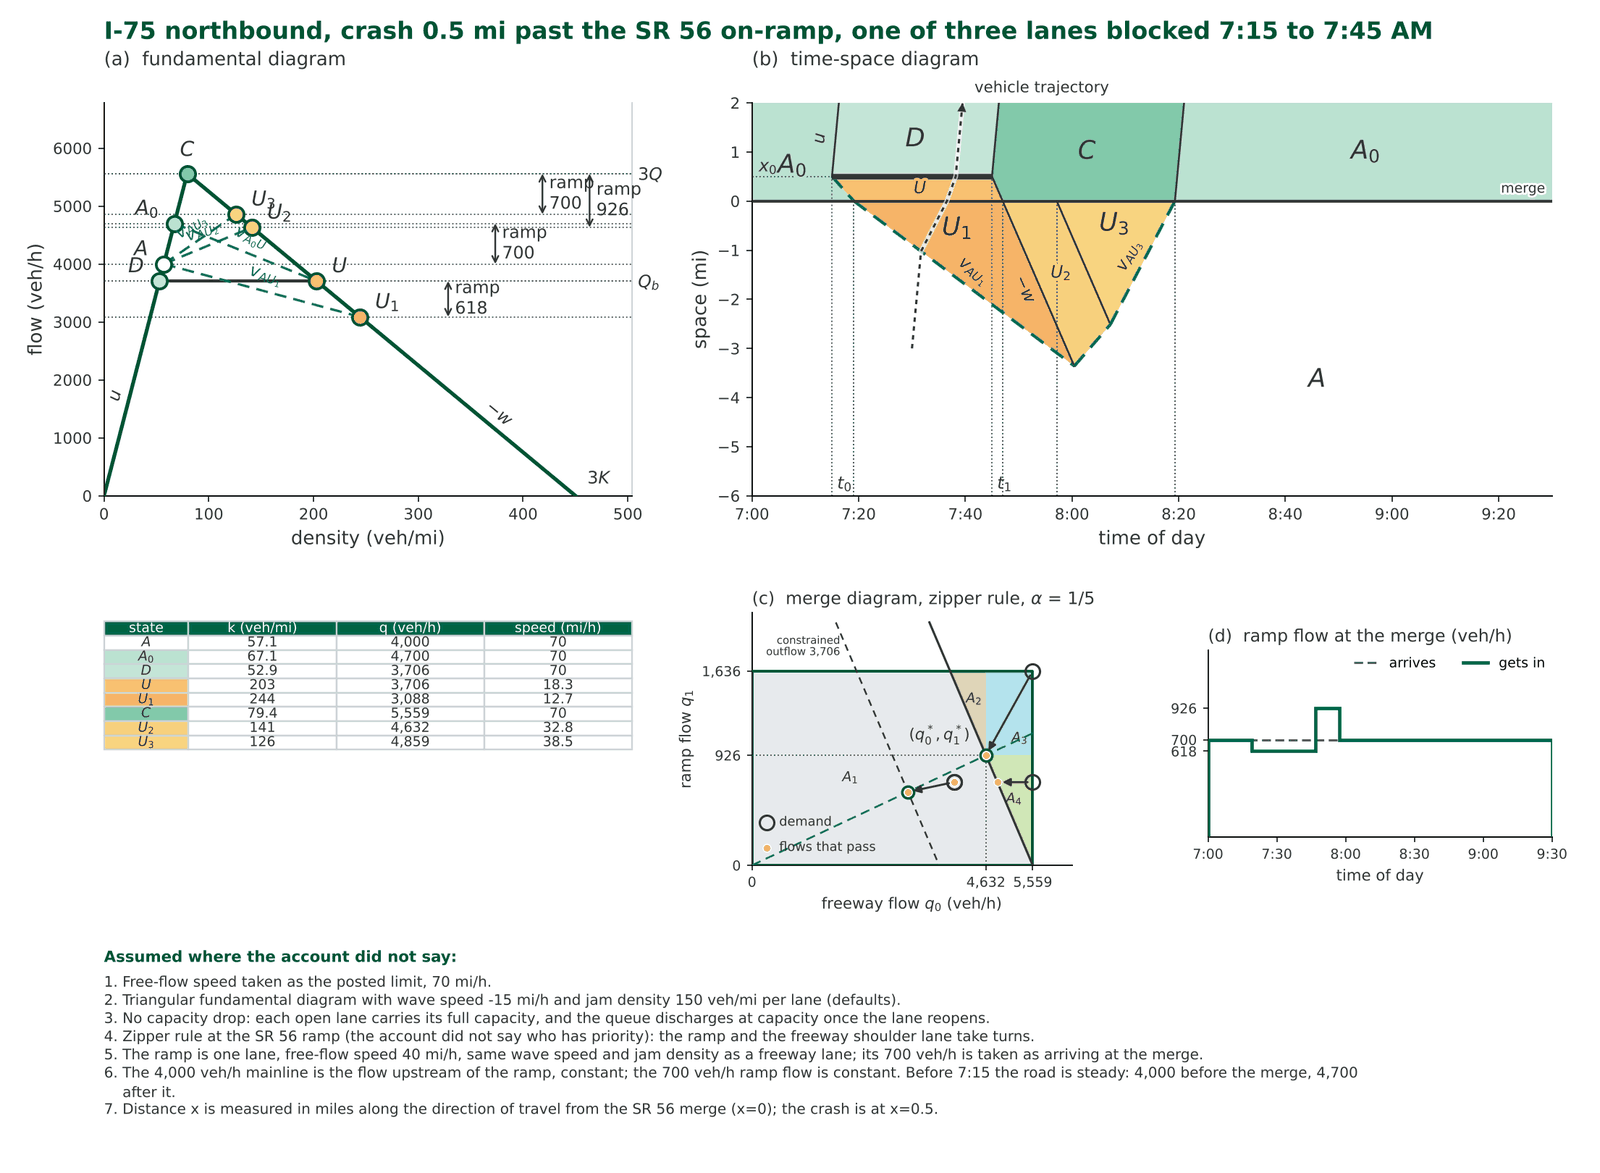
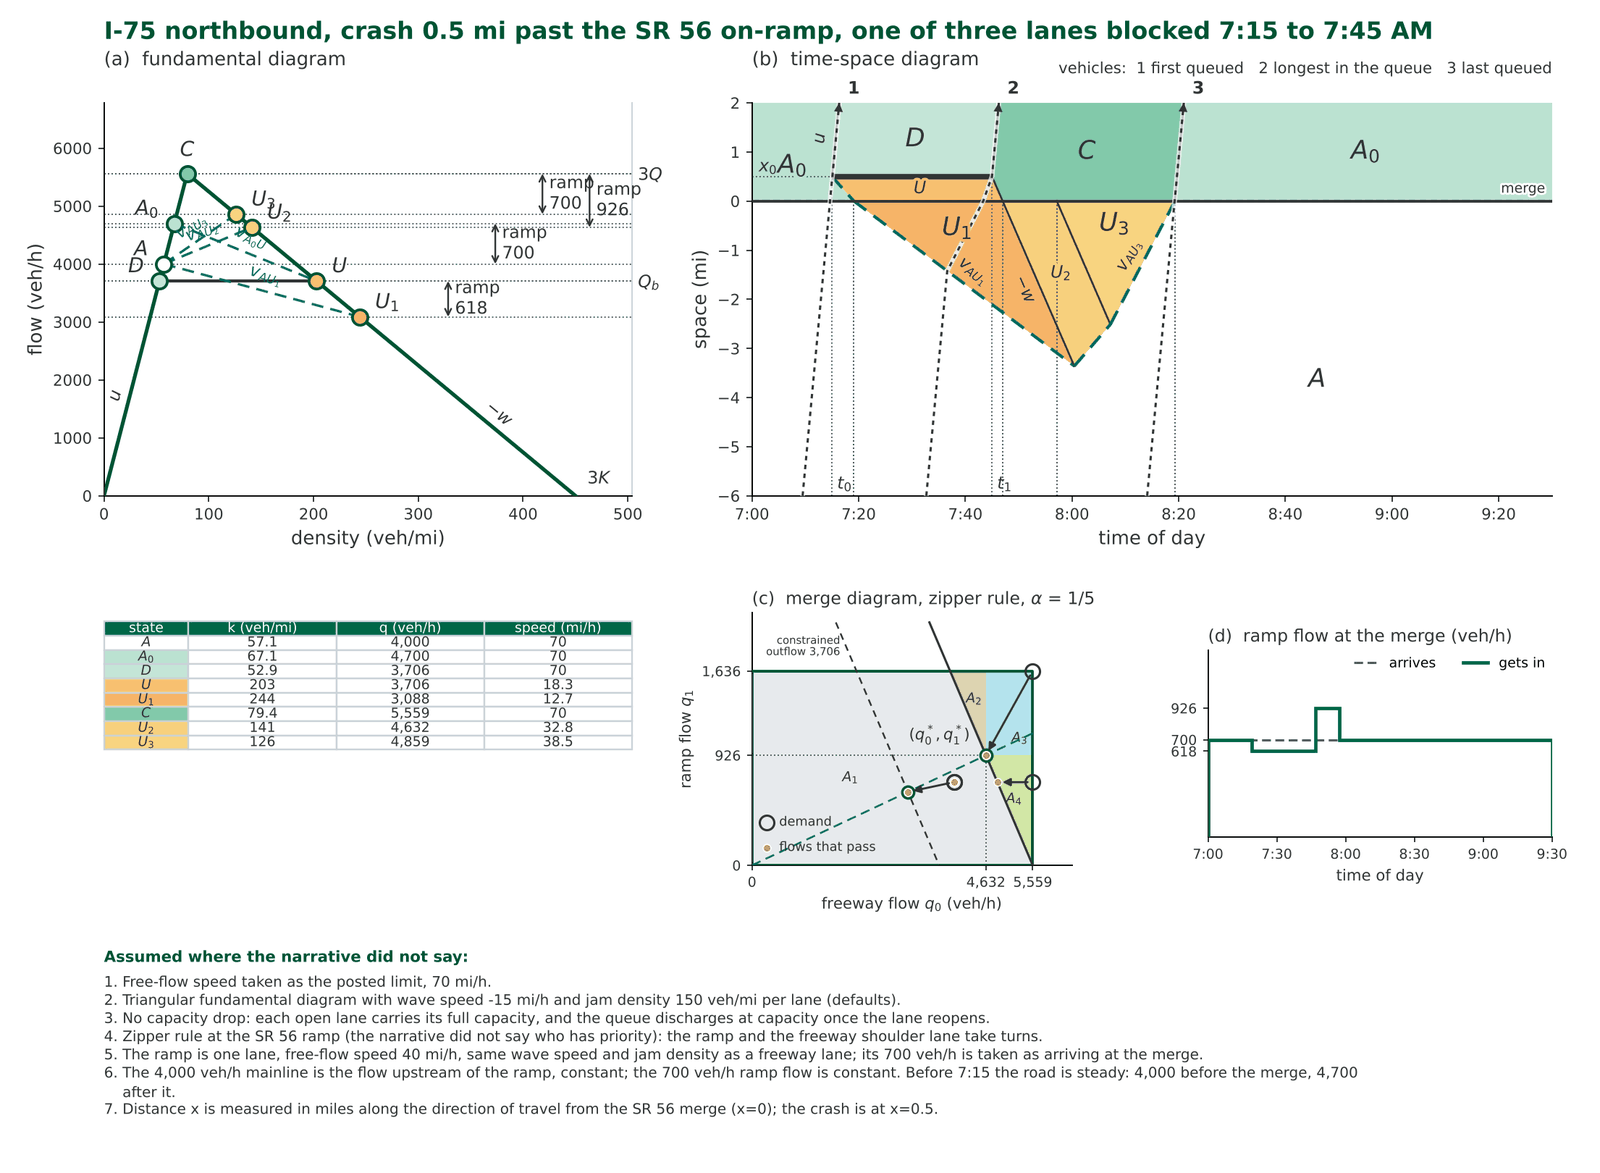
Diagram agent page: how to read a diagram, readings for the four examples
Adds the four reading rules (states, vertical line, horizontal line, area),
three numbered vehicles on each figure, and a short reading under each
example. Corrects the key numbers: the longest queue and the furthest reach
of its back are two different numbers.

Claude-Session: https://claude.ai/code/session_014NvYPouGWLsKmCMGh8xBX9

diff --git a/traffic-diagram-agent.md b/traffic-diagram-agent.md
@@ -96,6 +96,21 @@ top, and each colored region is one traffic state. Yellow, orange and red region
 denser; red is stopped traffic), and green regions are traffic leaving a queue. The assumptions are printed
 under each figure.
 
+**How to read what it means.** The agent also reads each diagram for you, with four simple rules:
+
+- **Each colored region is one state.** Find its dot on the fundamental diagram to get its speed, flow and
+  density. That is how you describe the congestion an incident causes.
+- **A vertical line is one moment.** It crosses the queue over the queue's length at that moment. The queue is
+  longest where the vertical line crosses the most, which for a crash is the moment the lanes reopen.
+- **A horizontal line is one place.** It crosses the queue over the time that place stays congested.
+- **Area is time spent in the queue.** The area of a queued region, times the density of its state, is the
+  total time vehicles spend in it, in vehicle-hours.
+
+The dotted lines are three vehicles, numbered on the figure: **1** is the first to be queued, **2** is the one
+longest in the queue (its path has the widest span inside the queue), and **3** is the last, which passes the
+point where the back of the queue and the discharge wave meet. The numbered paths and the readings below were
+added on November 23, 2026 by the agent's reading tool.
+
 ### 1. A crash, with everything given
 
 > I-4 eastbound at mile marker 14. A crash at 4:40 PM blocked the two right lanes of four. All lanes were
@@ -107,12 +122,19 @@ under each figure.
 unless you say so.
 
 ```{figure} _static/figures/KWA_Crash_Two_Of_Four.png
-:alt: Fundamental diagram and time-space diagram for a crash that blocks two of four lanes from 16:40 to 17:10. Behind the crash a queue (orange, state U) grows upstream; when the lanes reopen, discharge at capacity (state C) runs back through the queue and meets its back at 17:28, about 4.5 miles upstream.
+:alt: Fundamental diagram and time-space diagram for a crash that blocks two of four lanes from 16:40 to 17:10. Behind the crash a queue (orange, state U) grows upstream; when the lanes reopen, discharge at capacity (state C) runs back through the queue and meets its back at 17:28, about 4.5 miles upstream. Three dotted vehicle paths are numbered 1, 2 and 3.
 :width: 100%
 
-Key numbers: a queue first forms at 16:40. It is longest at 17:28, just as it clears: its back is then
-4.5 mi upstream of the crash. The queue is gone by 17:28.
+Key numbers: a queue first forms at 16:40. The queue is longest at 17:10: about 2.8 mi. The back of the queue
+is furthest upstream at 17:28: 4.5 mi behind the crash, just as the queue clears. The queue is gone by 17:28.
 ```
+
+*Reading it:* the queue (state *U*) moves at 10.3 mi/h, at 59% of jam density. The vertical line at 17:10 crosses
+it over 2.8 mi, from mile 11.2 to the crash at mile 14: the longest queue. The horizontal line at the crash
+crosses it for 30 minutes. The area of *U* times its density is about 397 vehicle-hours spent in the queue,
+shared by about 4,500 vehicles: 5.3 minutes each on average. Vehicle 2 is in the queue longest, 10.6 minutes:
+it joins the back at 16:59 at mile 12.2, crawls 1.8 mi, and passes the crash just as the lanes reopen at 17:10.
+Vehicles that join later are met by the discharge wave before they reach the crash, so they wait less.
 
 ### 2. A slow oversize load
 
@@ -132,6 +154,11 @@ Key numbers: a queue first forms at 10:00. The queue moves with the load and is 
 2.7 mi long. The queue is gone by 10:24.
 ```
 
+*Reading it:* behind the load, traffic moves at about 51 mi/h (state *U*), so this is a slow queue, not a
+standstill. About 1,210 vehicles are caught in it and spend about 57 vehicle-hours there, 2.8 minutes each on
+average. Vehicle 2 is in it longest, 5.7 minutes: it catches up with the queue at 10:14 and gets out when the
+load exits at 10:20.
+
 ### 3. A crash just past an on-ramp
 
 > Crash on I-75 northbound about half a mile past the SR 56 on-ramp, one of three lanes blocked from 7:15 to
@@ -146,9 +173,15 @@ so both queue. The lower panels show the merge and the ramp's own flow.
 :alt: Fundamental diagram, time-space diagram, merge diagram and ramp flow for a crash half a mile past an on-ramp, one of three lanes blocked from 7:15 to 7:45. The queue from the crash reaches the merge, after which the mainline queue (states U1, U2, U3) grows upstream of the merge and the ramp flow drops below its demand; the queue is gone at 8:19.
 :width: 100%
 
-Key numbers: a queue first forms at 07:15. At its longest, at 08:00, its back is 3.9 mi upstream of the
-crash. The queue is gone by 08:19.
+Key numbers: a queue first forms at 07:15. The queue is longest at 08:00: about 3.4 mi. The back of the queue
+is furthest upstream at 08:00: 3.9 mi behind the crash. The queue is gone by 08:19.
 ```
+
+*Reading it:* upstream of the merge the queue first moves at about 13 mi/h (*U1*), then faster as it
+discharges (*U2*, *U3*). The merge is the place congested longest: 60 minutes. Freeway vehicles spend about
+368 vehicle-hours in the queue: about 4,320 vehicles, 5 minutes each on average. Vehicle 2 is in it longest,
+8.4 minutes: it joins the back at 7:37 and gets past the crash at 7:45. The time ramp vehicles wait on the ramp
+itself is not in these numbers.
 
 ### 4. From a research paper: speed limits that clear a bottleneck queue
 
@@ -175,9 +208,12 @@ which makes the queue small.
 :alt: Fundamental diagram and time-space diagram for a bottleneck at km 12 with a capacity drop and a speed limit posted at km 11.5. The bottleneck queue h forms at 0.1 h. At 0.2 h a 20 km/h limit creates a slow queue c upstream of km 11.5 and a light flow d past it, which clears queue h by 0.275 h. At 0.28 h a 40 km/h limit turns c into queue e, which feeds the bottleneck 6,000 veh/h in free flow (state g). Lighter demand A2 ends queue e at km 11.5 at 0.443 h.
 :width: 100%
 
-Key numbers: a queue first forms at 0.1 h. At its longest, at 0.329 h, its back is 2.1 km upstream of the
-bottleneck. The queue is gone by 0.443 h.
+Key numbers: a queue first forms at 0.1 h. The queue is longest at 0.329 h: about 1.6 km. The back of the
+queue is furthest upstream at 0.329 h: 2.1 km behind the bottleneck. The queue is gone by 0.443 h.
 ```
+
+*Reading it:* the three queues move at 30 km/h (*h*), 20 km/h (*c*) and 40 km/h (*e*). About 1,970 vehicles
+spend about 52 vehicle-hours in them; the longest any vehicle spends is 0.049 h, about 3 minutes (vehicle 2).
 
 Paper: D. Chen, S. Ahn and A. Hegyi (2014), "Variable speed limit control for steady and oscillatory queues at
 fixed freeway bottlenecks," *Transportation Research Part B* 70, 340-358.
@@ -186,10 +222,11 @@ fixed freeway bottlenecks," *Transportation Research Part B* 70, 340-358.
 
 **Can:** crashes and lane closures, full stops and traffic signals, a slow vehicle, a lane drop, a
 speed-limit zone, on-ramps (zipper merge or ramp priority) and off-ramps, an arriving volume that changes in
-steps, and with-and-without comparisons.
+steps, and with-and-without comparisons. For each diagram it also gives a reading: the states, how long the
+queue gets, where congestion lasts longest, the time vehicles spend in the queue, and three vehicles.
 
 **Cannot (yet):** stop-and-go waves that grow by themselves, speed limits switched on along a stretch during
-an incident, networks of several roads, and totals such as delay or travel time. It uses a triangular
+an incident, networks of several roads, and delay compared with free flow. It uses a triangular
 fundamental diagram, and it does not consider a capacity drop unless you mention one.
 
 ## How it works
@@ -207,6 +244,9 @@ Before you see a diagram, a final tool checks it against kinematic wave theory, 
 numerical solution of the same problem. If the model cannot get a diagram through that check, a stronger
 model (Claude Opus 5.5) starts again; if that also fails, the tools' own solver draws the diagram and the page
 says so. A diagram that fails the check is never shown as an answer.
+
+The reading is also done by a tool, from the checked diagram: it measures the regions and follows the three
+vehicles, and the model only puts the numbers into words.
 
 ## Credits and contact
 
